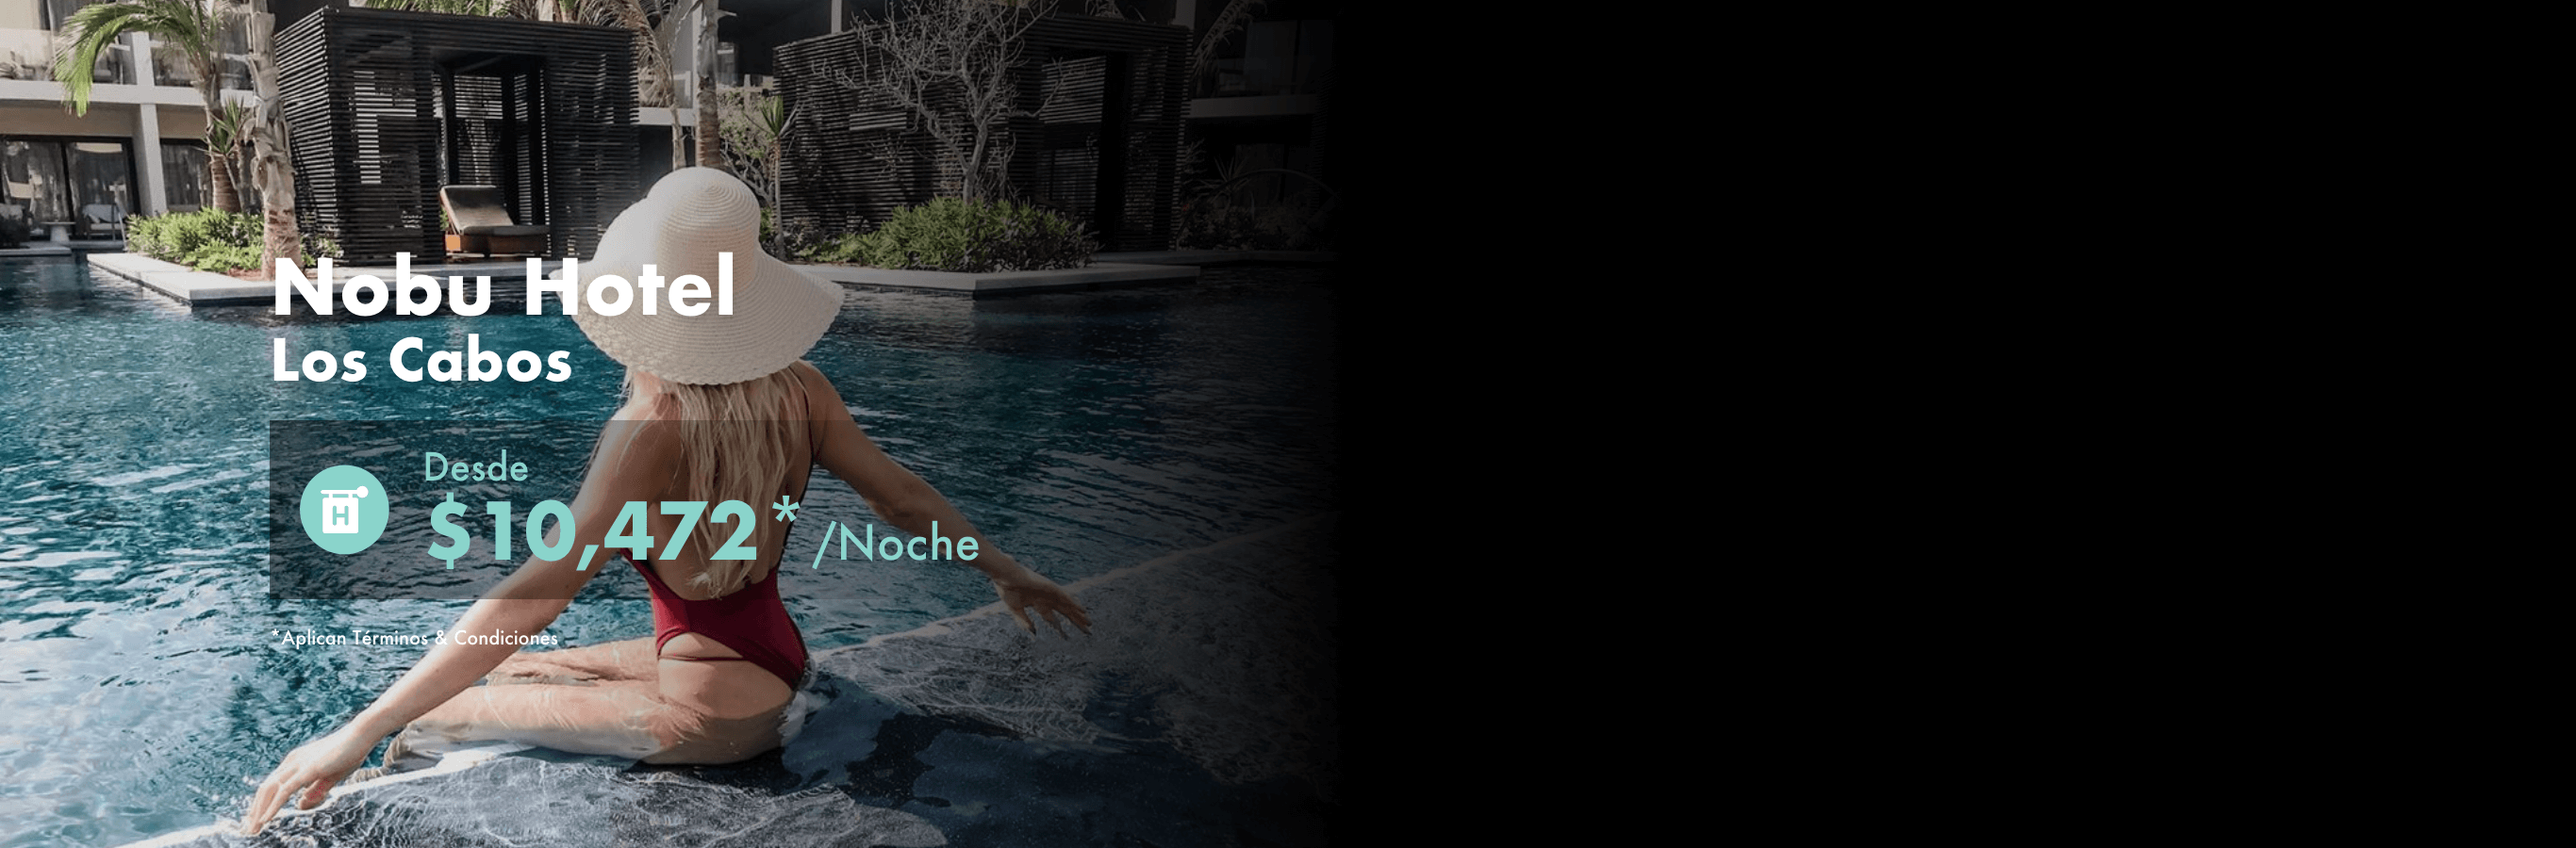
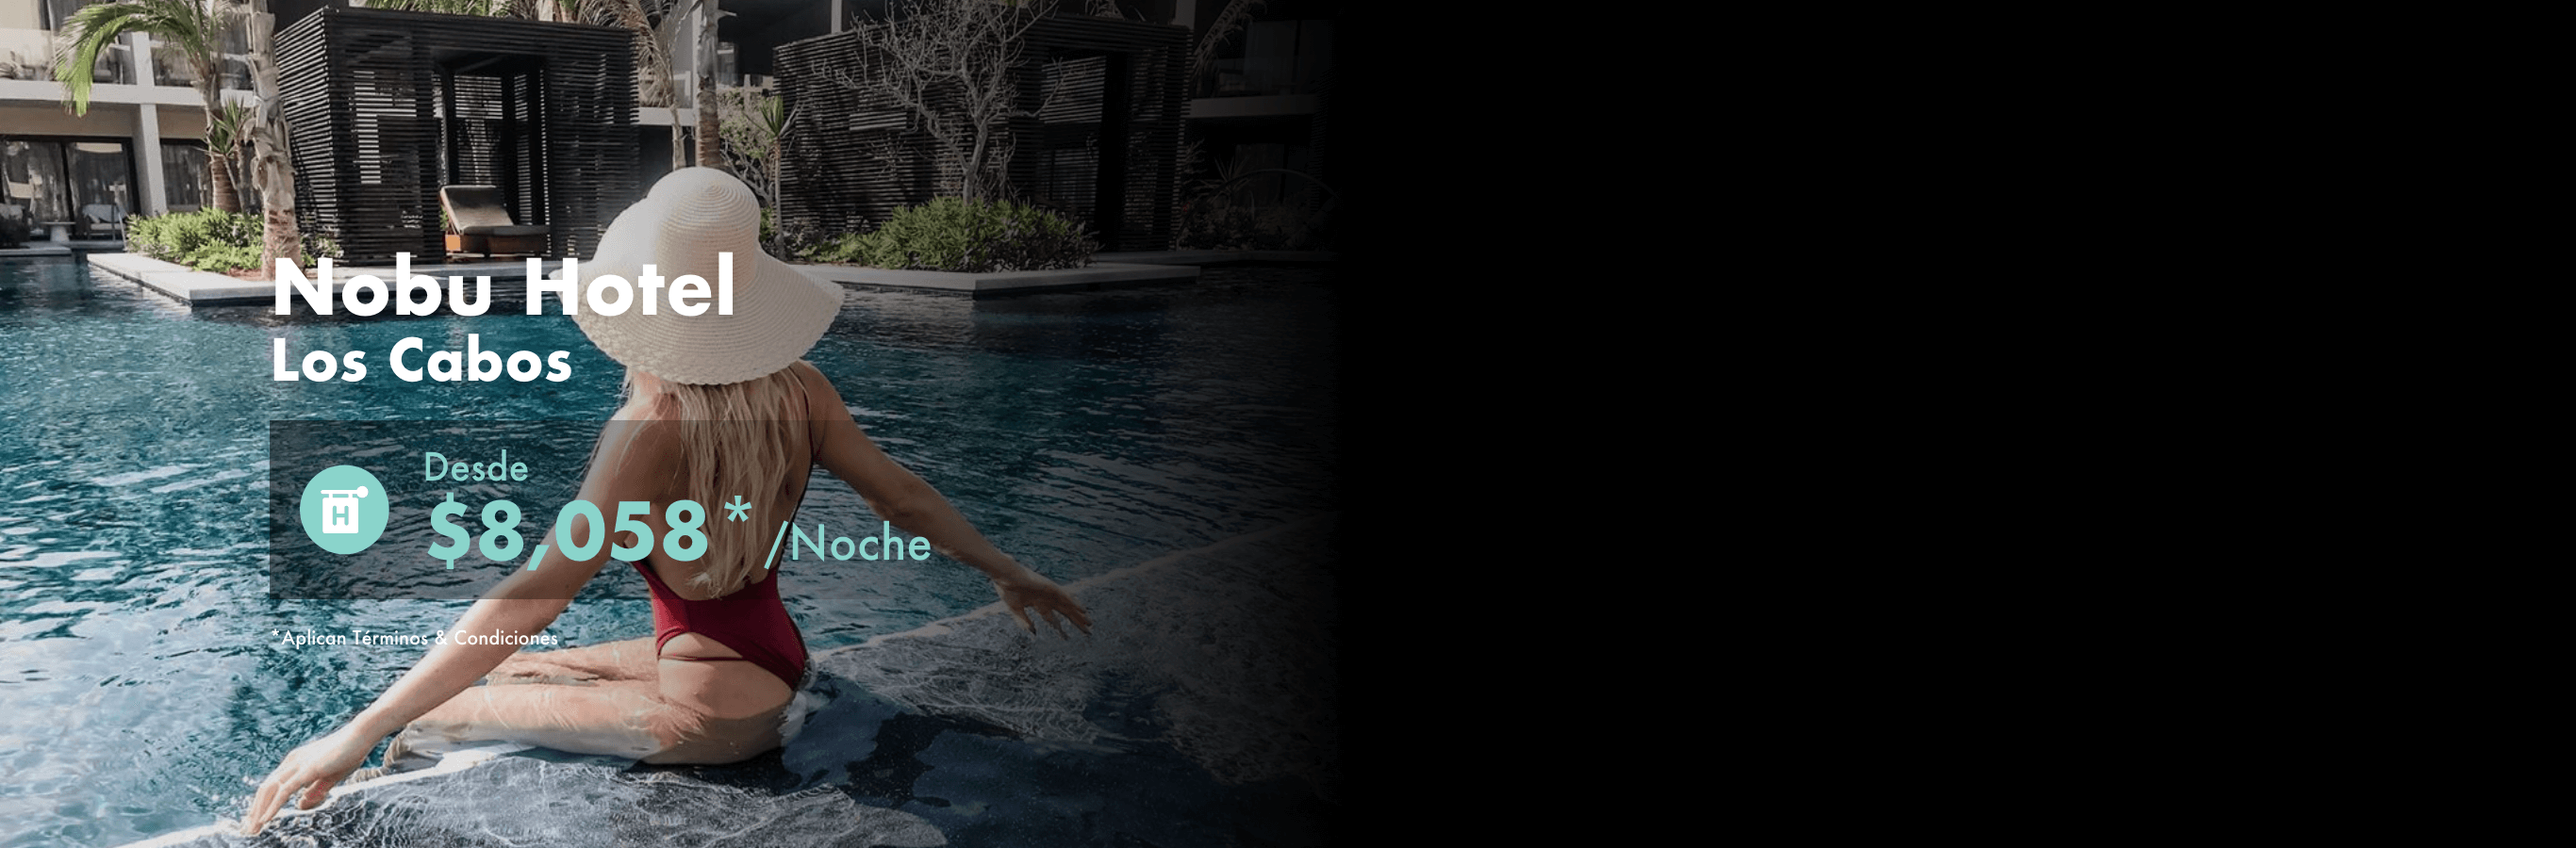
Cambios de precios e imagen

Changed region(s): [[0.1867, 0.5911, 0.3734, 0.6844]]

diff --git a/index.php b/index.php
@@ -127,7 +127,7 @@
                             <div class="col-md-12 col-sm-12 p-15">
                                 <h4 class="text-uppercase f-medium f-res-20">Nobu Hotel Los Cabos</h4>
                                 <small class="c-red f-8">Desde</small>
-                                <p class="c-red f-16">$10,472*<span class="fs-8">/Noche</span></p>
+                                <p class="c-red f-16">$8,058*<span class="fs-8">/Noche</span></p>
                                 <a href="#main" class="btn col-md-12 col-xs-12 btn-yellow white-text mb-10 radius-0 f-bold mb-0 txt-cap p-15 form-desktop">Llámame</a>
                                 <a href="#formRes" class="btn col-md-12 col-xs-12 btn-yellow white-text mb-10 radius-0 f-bold mb-0 txt-cap p-15 d-mobile">Llámame</a>
                             </div>
@@ -141,7 +141,7 @@
                             <div class="col-md-12 col-sm-12 p-15">
                                 <h4 class="text-uppercase f-medium f-res-20">Grand Velas Los Cabos</h4>
                                 <small class="c-red f-8">Desde</small>
-                                <p class="c-red f-16">$23,758*<span class="fs-8">/Noche</span></p>
+                                <p class="c-red f-16">$24,384*<span class="fs-8">/Noche</span></p>
                                 <a href="#main" class="btn col-md-12 col-xs-12 btn-yellow white-text mb-10 radius-0 f-bold mb-0 txt-cap p-15 form-desktop">Llámame</a>
                                 <a href="#formRes" class="btn col-md-12 col-xs-12 btn-yellow white-text mb-10 radius-0 f-bold mb-0 txt-cap p-15 d-mobile">Llámame</a>
                             </div>
@@ -183,7 +183,7 @@
                             <div class="col-md-12 col-sm-12 p-15">
                                 <h4 class="text-uppercase f-medium f-res-20">Azul Talavera</h4>
                                 <small class="c-red f-8">Desde</small>
-                                <p class="c-red f-16">$5,036*<span class="fs-8">/Noche</span></p>
+                                <p class="c-red f-16">$6,451*<span class="fs-8">/Noche</span></p>
                                 <a href="#main" class="btn col-md-12 col-xs-12 btn-yellow white-text mb-10 radius-0 f-bold mb-0 txt-cap p-15 form-desktop">Llámame</a>
                                 <a href="#formRes" class="btn col-md-12 col-xs-12 btn-yellow white-text mb-10 radius-0 f-bold mb-0 txt-cap p-15 d-mobile">Llámame</a>
                             </div>
@@ -209,7 +209,7 @@
                             <div class="col-md-12 col-sm-12 p-15">
                                 <h4 class="text-uppercase f-medium f-res-20">The Grand Moon Palace </h4>
                                 <small class="c-red f-8">Desde</small>
-                                <p class="c-red f-16">$9,872*<span class="fs-8">/Persona</span></p>
+                                <p class="c-red f-16">$10,814*<span class="fs-8">/Persona</span></p>
                                 <a href="#main" class="btn col-md-12 col-xs-12 btn-yellow white-text mb-10 radius-0 f-bold mb-0 txt-cap p-15 form-desktop">Llámame</a>
                                 <a href="#formRes" class="btn col-md-12 col-xs-12 btn-yellow white-text mb-10 radius-0 f-bold mb-0 txt-cap p-15 d-mobile">Llámame</a>
                             </div>
@@ -223,7 +223,7 @@
                             <div class="col-md-12 col-sm-12 p-15">
                                 <h4 class="mb-0 text-uppercase f-medium f-res-20">Hard Rock Hotel Cancun</h4>
                                 <small class="c-red f-8">Desde</small>
-                                <p class="c-red f-16">$9,314*<span class="fs-8">/Persona</span></p>
+                                <p class="c-red f-16">$8,869*<span class="fs-8">/Persona</span></p>
                                 <a href="#main" class="btn col-md-12 col-xs-12 btn-yellow white-text mb-10 radius-0 f-bold mb-0 txt-cap p-15 form-desktop">Llámame</a>
                                 <a href="#formRes" class="btn col-md-12 col-xs-12 btn-yellow white-text mb-10 radius-0 f-bold mb-0 txt-cap p-15 d-mobile">Llámame</a>
                             </div>
@@ -237,7 +237,7 @@
                             <div class="col-md-12 col-sm-12 p-15">
                                 <h4 class="mb-0 text-uppercase f-medium f-res-20">Dreams Playa Mujeres Golf Resort & Spa</h4>
                                 <small class="c-red f-8">Desde</small>
-                                <p class="c-red f-16">$7,645*<span class="fs-8">/Persona</span></p>
+                                <p class="c-red f-16">$7,117*<span class="fs-8">/Persona</span></p>
                                 <a href="#main" class="btn col-md-12 col-xs-12 btn-yellow white-text mb-10 radius-0 f-bold mb-0 txt-cap p-15 form-desktop">Llámame</a>
                                 <a href="#formRes" class="btn col-md-12 col-xs-12 btn-yellow white-text mb-10 radius-0 f-bold mb-0 txt-cap p-15 d-mobile">Llámame</a>
                             </div>
@@ -251,7 +251,7 @@
                             <div class="col-md-12 col-sm-12 p-15">
                                 <h4 class="text-uppercase f-medium f-res-20">UNICO 20ºN 87ºW</h4>
                                 <small class="c-red f-8">Desde</small>
-                                <p class="c-red f-16">$10,178*<span class="fs-8">/Persona</span></p>
+                                <p class="c-red f-16">$11,981*<span class="fs-8">/Persona</span></p>
                                 <a href="#main" class="btn col-md-12 col-xs-12 btn-yellow white-text mb-10 radius-0 f-bold mb-0 txt-cap p-15 form-desktop">Llámame</a>
                                 <a href="#formRes" class="btn col-md-12 col-xs-12 btn-yellow white-text mb-10 radius-0 f-bold mb-0 txt-cap p-15 d-mobile">Llámame</a>
                             </div>
@@ -265,7 +265,7 @@
                             <div class="col-md-12 col-sm-12 p-15">
                                 <h4 class="mb-0 text-uppercase f-medium f-res-20">GRAND VELAS RIVIERA NAYARIT</h4>
                                 <small class="c-red f-8">Desde</small>
-                                <p class="c-red f-16">$17,645*<span class="fs-8">/Persona</span></p>
+                                <p class="c-red f-16">$17,840*<span class="fs-8">/Persona</span></p>
                                 <a href="#main" class="btn col-md-12 col-xs-12 btn-yellow white-text mb-10 radius-0 f-bold mb-0 txt-cap p-15 form-desktop">Llámame</a>
                                 <a href="#formRes" class="btn col-md-12 col-xs-12 btn-yellow white-text mb-10 radius-0 f-bold mb-0 txt-cap p-15 d-mobile">Llámame</a>
                             </div>
